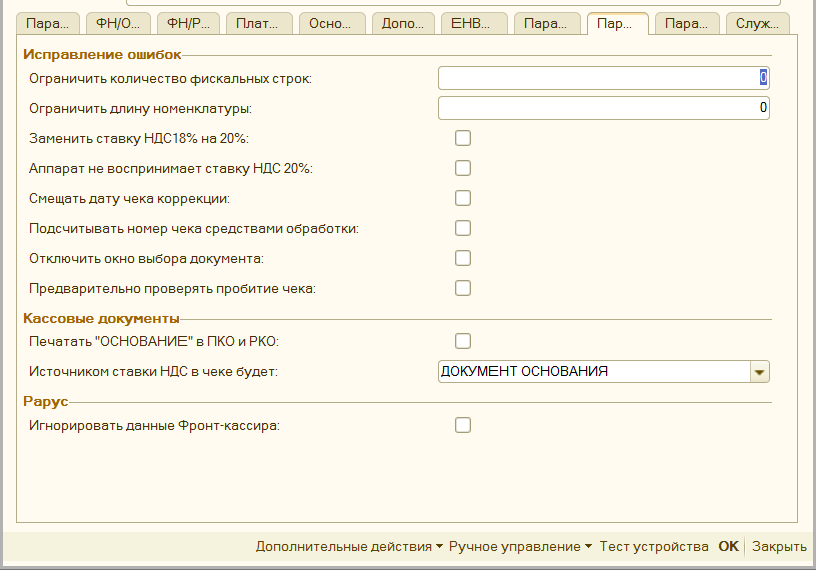
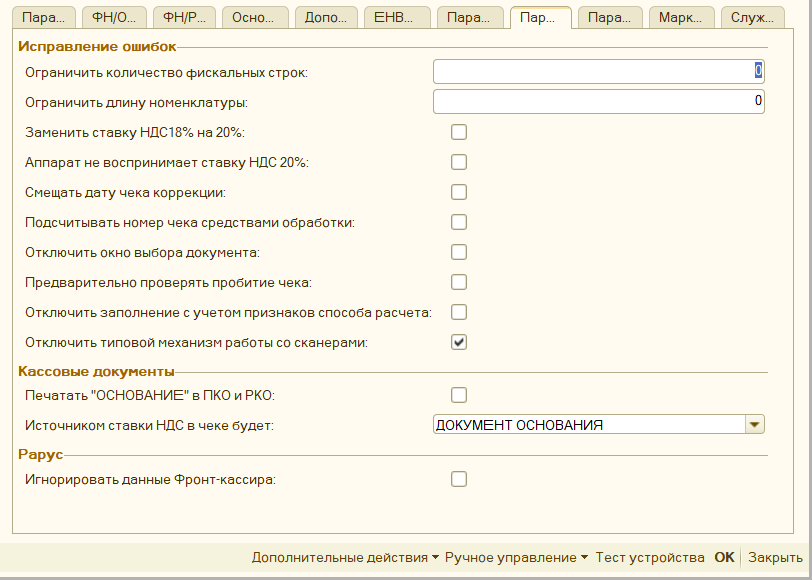
Обновление описание параметров

Changed region(s): [[0.0, 0.0, 1.0, 1.0], [0.9236, 0.7158, 0.9544, 0.7456], [0.5542, 0.8053, 0.585, 0.8351]]

diff --git a/Описание параметров.md b/Описание параметров.md
@@ -1,16 +1,17 @@
 # Параметры обработки #
 
->**Важно**: при изменении параметров обработки, необходимо перезапускать 1С, чтобы эти параметры обновились в настройках.
+>**Важно**: при изменении параметров обработки, необходимо перезапускать 1С, чтобы настройки обновились.
+> Параметры обработки, до закладки **Основные параметры** являются настройками компоенты оборудования, и меняются взависимости от выбранного оборудования и версии драйверов к ним, обработка на них не может повлиять, и настройки для них необходимо смотреть на сайте у производителя выбранного оборудования
 
 ## Основные параметры ##
 
 ![Основные параметры](media/19e9e48aa4d1d183354d16697ea0b837.png)
 
-**«Путь к ключу лицензирования»** - путь к лицензии на обработку. Заполняется, в случае использования режима «**Лицензия**» (см.[«Лицензирование»](Лицензирование.md)). Для использования обработки в режиме «**Демо**» заполнение не требуется.
+**«Путь к ключу лицензирования»** - путь к лицензии на обработку. Заполняется, в случае использования режима «**Лицензия**» (см. [«Лицензирование»](Лицензирование.md)). Для использования обработки в режиме «**Демо**» заполнение не требуется.
 
-**«Лицензирование»** - определяет режим использования обработки, Возможны следующие варианты «**Демо**», «**Лицензия**» или «**Ферма RDP-серверов**». См.[«Лицензирование»](Лицензирование.md)
+**«Лицензирование»** - определяет режим использования обработки, Возможны следующие варианты «**Демо**», «**Лицензия**» или «**Ферма RDP-серверов**». См. [«Лицензирование»](Лицензирование.md)
 
-**«Путь к файлу технической поддержки»** - путь к файлу технической поддержки. Файл указывает, какая именно версия обработки доступна. Заполняется, если компьютер отключен от интернета или имеет нестабильный интернет. см. [«Лицензирование»](Лицензирование.md)
+**«Путь к файлу технической поддержки»** - путь к файлу технической поддержки. Файл указывает, какая именно версия обработки доступна. Необходимо сформировать, если компьютер отключен от интернета или имеет нестабильный интернет. см. [«Лицензирование»](Лицензирование.md)
 
 **«Система налогообложения»** - данное поле обязательно для заполнения, отвечает, какая система налогообложения будет передана на печать. Является **системой налогообложения по умолчанию** при использовании функционала [«Распределение СНО»](Механизм%20распределения.md#распределение-по-системам-налогообложения).
 
@@ -121,19 +122,18 @@
 
 **«Подсчитывать номер чека средствами обработки»** - необходимо включить, если нумерация чеков не начинается с 1 в начале смены, а передается сквозная.
 
-**«Отключить окно выбора документа»** - если обработка не сможет определить документ перед печатью чека, то появится окно с выбором документа вручную, данная настройка позволяет его отключить, однако все равно нужно переопределить
-функционал печати через доп обработчик.
+**«Отключить окно выбора документа»** - если обработка не сможет определить документ перед печатью чека, то появится окно с выбором документа вручную, данная настройка позволяет его отключить, однако все равно нужно переопределить функционал печати через доп обработчик.
 
-**«Предварительно проверять пробитие чека»** - перед пробитием чека обработка дополнительно проверяет пробит ли чек ранее по этому документу, такой параметр стал актуален на новых конфигурациях на обычных формах, в них убрали данную
-проверку.
+**«Предварительно проверять пробитие чека»** - перед пробитием чека обработка дополнительно проверяет пробит ли чек ранее по этому документу, такой параметр стал актуален на новых конфигурациях на обычных формах, в них убрали данную проверку.
 
-**«Печатать «ОСНОВАНИЕ» в ПКО и РКО»** - позволяет вначале документа напечатать текстовую строку «Основания». Например, **«Контрагент такой-то Основание документа такое-то».** Строка основания будет напечатана, если в тексте нет
-фискальных строк с тем же самым текстом.
-**«Источником ставки НДС в чеке будет»** - данный параметр определяет какая ставка НДС будет проставляться в кассовые документы: по документу основания, либо по текущему документу. Возможны варианты: «Кассовый документ» или «Документ
-основания»
+**«Отключить заполнение с учетом признаков способа расчета»** - отключает алгоритм заполнения с учетом признаков способа расчета, когда признак способа расчета "Аванс" заменяется на единую строку платежа, когда позиции по признаку способа расчета "Предоплата" учитываются не как "Товар", а как "Платеж"
 
-**«Игнорировать данные Фронт-кассира»** - используется для конфигураций Рарус, если включен, то при печати через форму «фронт кассира» или «фронт менеджера», несмотря на указанные в ней товары, данные для печати будут взяты прямо из
-документа основания, однако суммы оплаты будут все равно взяты и фронт кассира.
+**«Откллючить типовой механизм работы со сканерами»** - отключает механизм работы с торговым оборудованием, когда сканер штрихкодов уже подключен к 1С через типовой функционал, такой механизм есть в типовых конфигурациях Управление торговлей 10.3, Управление производственным предприятием 1.3, и т.д.
+
+**«Печатать «ОСНОВАНИЕ» в ПКО и РКО»** - позволяет вначале документа напечатать текстовую строку «Основания». Например, **«Контрагент такой-то Основание документа такое-то».** Строка основания будет напечатана, если в тексте нет фискальных строк с тем же самым текстом.
+**«Источником ставки НДС в чеке будет»** - данный параметр определяет какая ставка НДС будет проставляться в кассовые документы: по документу основания, либо по текущему документу. Возможны варианты: «Кассовый документ» или «Документ основания»
+
+**«Игнорировать данные Фронт-кассира»** - используется для конфигураций Рарус, если включен, то при печати через форму «фронт кассира» или «фронт менеджера», несмотря на указанные в ней товары, данные для печати будут взяты прямо из документа основания, однако суммы оплаты будут все равно взяты и фронт кассира.
 
 ## Параметры для ФФД ##
 
